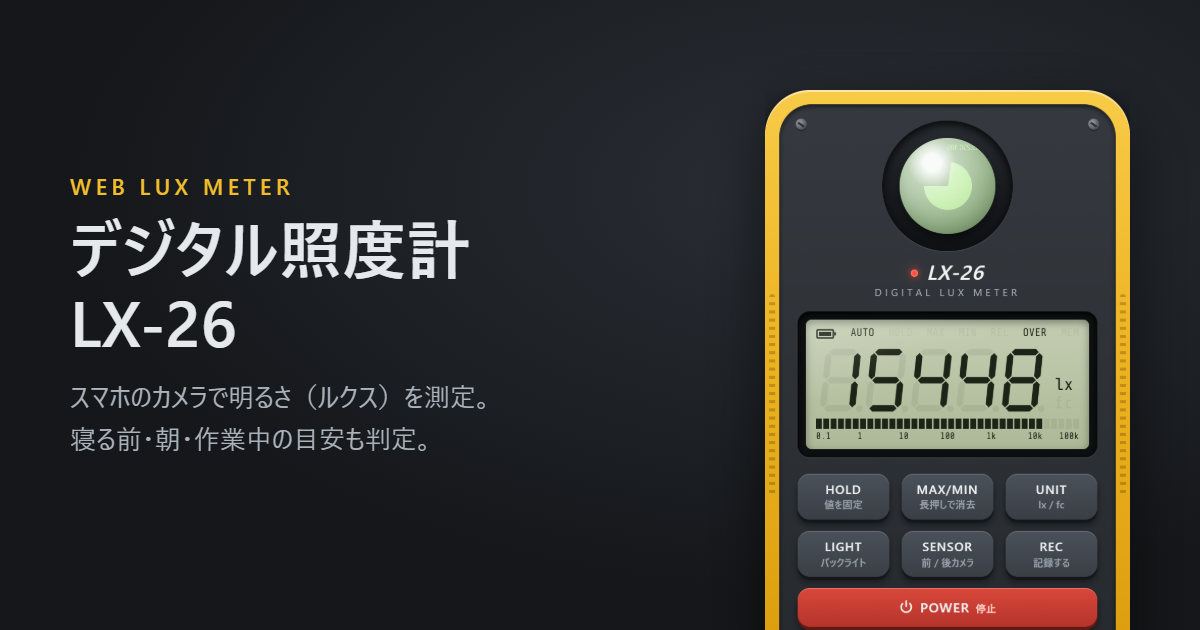
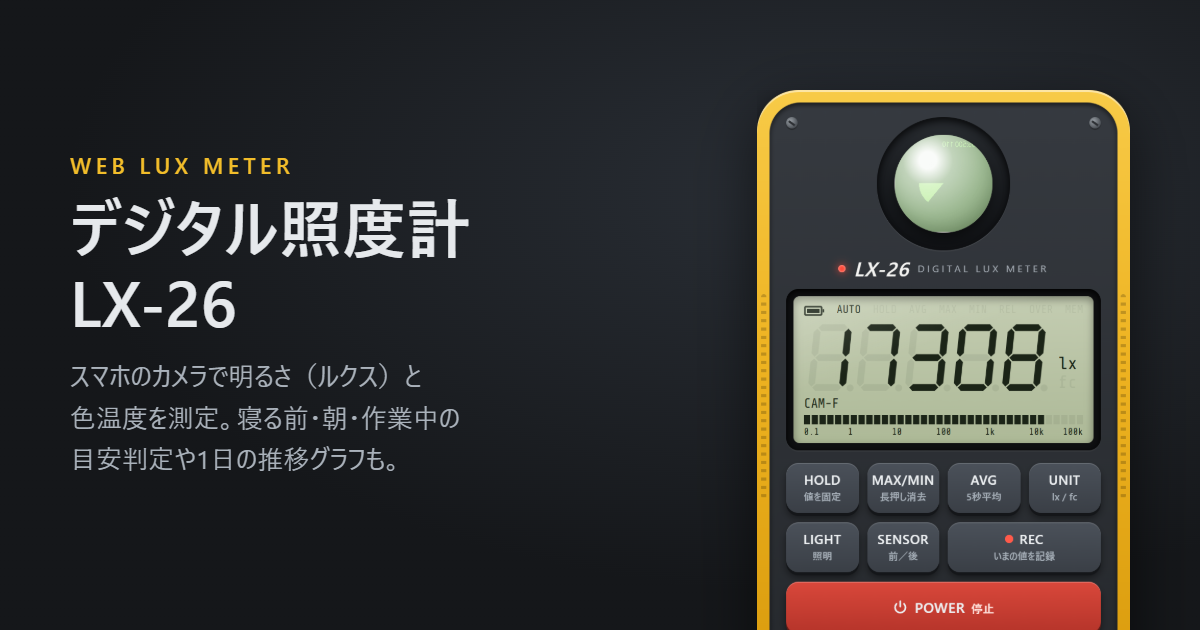
Regenerate OGP image for the new key layout and features

Changed region(s): [[0.6167, 0.1206, 0.9558, 1.0], [0.0617, 0.2413, 0.4008, 0.754]]

diff --git a/sw.js b/sw.js
@@ -1,6 +1,6 @@
 // オフライン対応用 Service Worker
 // アプリ本体を更新したら CACHE のバージョンを上げる
-const CACHE = "lux-meter-v3";
+const CACHE = "lux-meter-v4";
 const ASSETS = [
   "./",
   "index.html",
